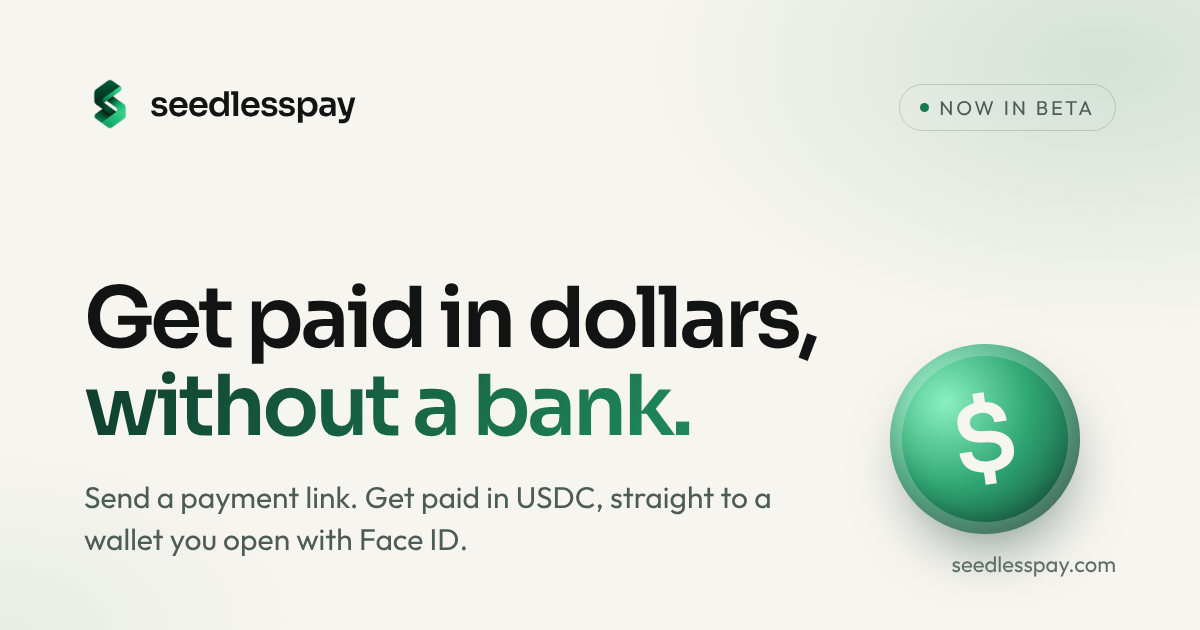
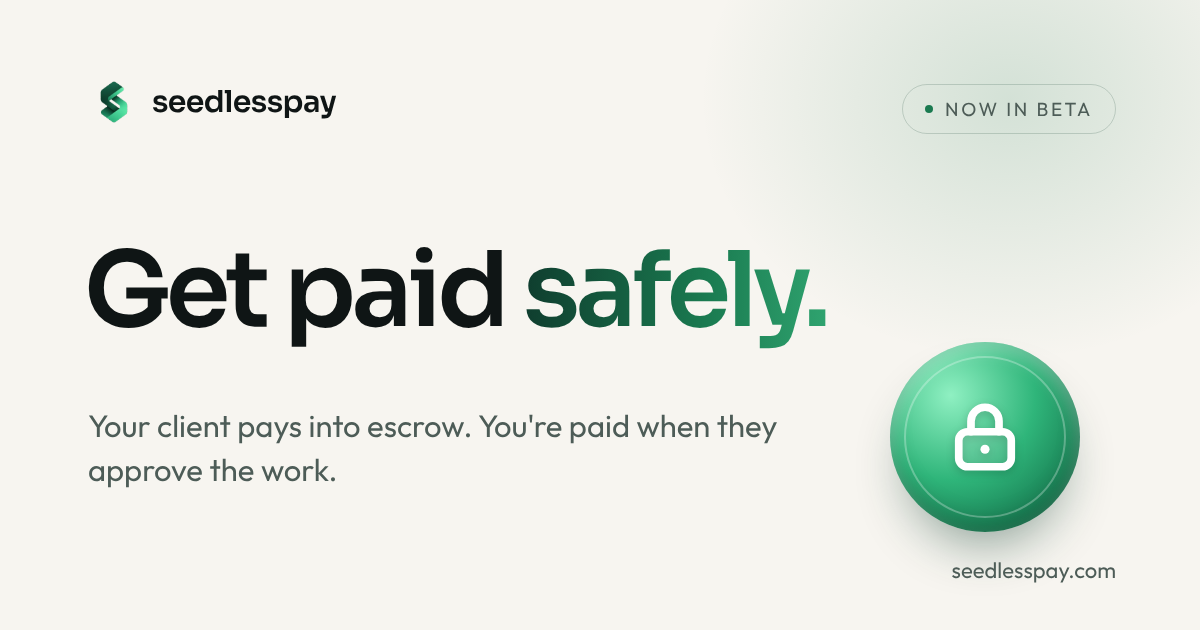
New headline: Get paid safely. Update meta tags and link preview image
Claude-Session: https://claude.ai/code/session_01AqF3VRSFP2KpWv2mcSFggr

diff --git a/web/index.html b/web/index.html
@@ -3,8 +3,8 @@
 <head>
   <meta charset="utf-8">
   <meta name="viewport" content="width=device-width, initial-scale=1">
-  <title>SeedlessPay: get paid in dollars without a bank or a seed phrase</title>
-  <meta name="description" content="SeedlessPay lets freelancers send a payment link and get paid in USDC, straight into a wallet they open with Face ID. No bank account or seed phrase needed.">
+  <title>SeedlessPay: get paid safely for client work</title>
+  <meta name="description" content="Your client pays into escrow, and you are paid in USDC when they approve the work. Invoices, milestones and a wallet you open with Face ID. No seed phrase.">
   <meta name="theme-color" content="#f7f5f0">
   <link rel="canonical" href="https://seedlesspay.com/">
   <link rel="icon" href="/assets/favicon.ico?v=2" sizes="any">
@@ -14,15 +14,15 @@
 
   <meta property="og:type" content="website">
   <meta property="og:url" content="https://seedlesspay.com/">
-  <meta property="og:title" content="SeedlessPay: get paid in dollars">
-  <meta property="og:description" content="Get paid in dollars without a bank or a seed phrase.">
-  <meta property="og:image" content="https://seedlesspay.com/assets/og.png">
+  <meta property="og:title" content="SeedlessPay: get paid safely">
+  <meta property="og:description" content="Your client pays into escrow. You're paid when they approve the work.">
+  <meta property="og:image" content="https://seedlesspay.com/assets/og.png?v=2">
   <meta property="og:image:width" content="1200">
   <meta property="og:image:height" content="630">
-  <meta property="og:image:alt" content="SeedlessPay: get paid in dollars, without a bank.">
+  <meta property="og:image:alt" content="SeedlessPay: get paid safely.">
   <meta property="og:site_name" content="SeedlessPay">
   <meta name="twitter:card" content="summary_large_image">
-  <meta name="twitter:image" content="https://seedlesspay.com/assets/og.png">
+  <meta name="twitter:image" content="https://seedlesspay.com/assets/og.png?v=2">
   <meta name="twitter:site" content="@seedlesspay">
 
   <link rel="preload" href="/assets/fonts/Sora-latin.woff" as="font" type="font/woff" crossorigin>
@@ -64,8 +64,8 @@
       <div class="wrap hero__grid">
         <div class="hero__copy">
           <p class="pill"><span class="dot" aria-hidden="true"></span>Now in beta</p>
-          <h1>Get paid in dollars, <em>without a bank.</em></h1>
-          <p class="lede">Send your client a payment link. They pay in USDC, and the money goes straight to a wallet you open with Face ID.</p>
+          <h1>Get paid <em>safely.</em></h1>
+          <p class="lede">Your client pays into escrow. You're paid when they approve the work.</p>
           <form class="join" action="/api/waitlist" method="post" novalidate data-waitlist>
             <label class="sr-only" for="email-hero">Email address</label>
             <input id="email-hero" class="join__input" type="email" name="email" placeholder="you@example.com" autocomplete="email" maxlength="254" required>

diff --git a/web/privacy.html b/web/privacy.html
@@ -14,15 +14,15 @@
 
   <meta property="og:type" content="website">
   <meta property="og:url" content="https://seedlesspay.com/privacy">
-  <meta property="og:title" content="SeedlessPay: get paid in dollars">
-  <meta property="og:description" content="Get paid in dollars without a bank or a seed phrase.">
-  <meta property="og:image" content="https://seedlesspay.com/assets/og.png">
+  <meta property="og:title" content="SeedlessPay: get paid safely">
+  <meta property="og:description" content="Your client pays into escrow. You're paid when they approve the work.">
+  <meta property="og:image" content="https://seedlesspay.com/assets/og.png?v=2">
   <meta property="og:image:width" content="1200">
   <meta property="og:image:height" content="630">
-  <meta property="og:image:alt" content="SeedlessPay: get paid in dollars, without a bank.">
+  <meta property="og:image:alt" content="SeedlessPay: get paid safely.">
   <meta property="og:site_name" content="SeedlessPay">
   <meta name="twitter:card" content="summary_large_image">
-  <meta name="twitter:image" content="https://seedlesspay.com/assets/og.png">
+  <meta name="twitter:image" content="https://seedlesspay.com/assets/og.png?v=2">
   <meta name="twitter:site" content="@seedlesspay">
 
   <link rel="preload" href="/assets/fonts/Sora-latin.woff" as="font" type="font/woff" crossorigin>

diff --git a/web/terms.html b/web/terms.html
@@ -14,15 +14,15 @@
 
   <meta property="og:type" content="website">
   <meta property="og:url" content="https://seedlesspay.com/terms">
-  <meta property="og:title" content="SeedlessPay: get paid in dollars">
-  <meta property="og:description" content="Get paid in dollars without a bank or a seed phrase.">
-  <meta property="og:image" content="https://seedlesspay.com/assets/og.png">
+  <meta property="og:title" content="SeedlessPay: get paid safely">
+  <meta property="og:description" content="Your client pays into escrow. You're paid when they approve the work.">
+  <meta property="og:image" content="https://seedlesspay.com/assets/og.png?v=2">
   <meta property="og:image:width" content="1200">
   <meta property="og:image:height" content="630">
-  <meta property="og:image:alt" content="SeedlessPay: get paid in dollars, without a bank.">
+  <meta property="og:image:alt" content="SeedlessPay: get paid safely.">
   <meta property="og:site_name" content="SeedlessPay">
   <meta name="twitter:card" content="summary_large_image">
-  <meta name="twitter:image" content="https://seedlesspay.com/assets/og.png">
+  <meta name="twitter:image" content="https://seedlesspay.com/assets/og.png?v=2">
   <meta name="twitter:site" content="@seedlesspay">
 
   <link rel="preload" href="/assets/fonts/Sora-latin.woff" as="font" type="font/woff" crossorigin>

diff --git a/web/pay.html b/web/pay.html
@@ -8,7 +8,7 @@
   <meta name="theme-color" content="#f7f5f0">
   <meta property="og:title" content="You have an invoice to pay">
   <meta property="og:description" content="Pay this invoice with USDC on SeedlessPay.">
-  <meta property="og:image" content="https://seedlesspay.com/assets/og.png">
+  <meta property="og:image" content="https://seedlesspay.com/assets/og.png?v=2">
   <meta name="twitter:card" content="summary_large_image">
   <link rel="icon" href="/assets/favicon.ico?v=2" sizes="any">
   <link rel="icon" href="/assets/favicon-32.png?v=2" type="image/png" sizes="32x32">
